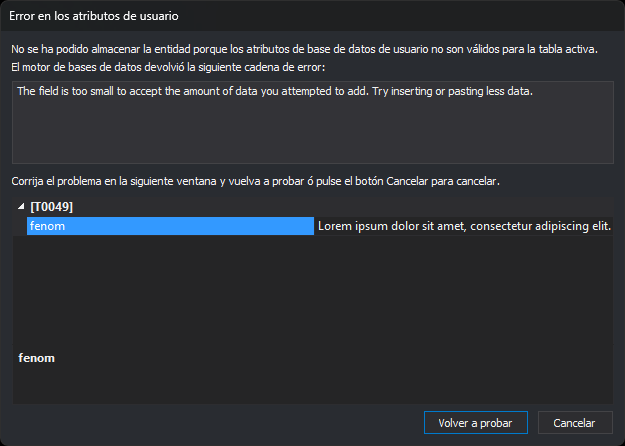
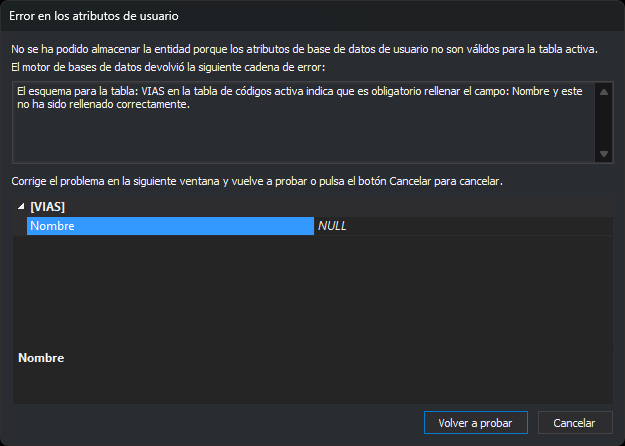
Cuadro No has introducido un campo obligatorio: página nueva y corrección de Error en los atributos de usuario
Página nueva para el cuadro que aparece al cancelar Error en los
atributos de usuario: cuándo aparece, qué muestra Más información y qué
hace cada botón. El cuadro no se puede cerrar con Esc.

En Error en los atributos de usuario, el botón Cancelar describía las
opciones de otro cuadro. Ahora enlaza a la página nueva. Se añade el
cuadro de Editar códigos como origen, el enlace a Permitir longitud 0 y
que la cadena de error puede generarla el propio Digi3D.AI.

Capturas nueva y sustituida.

diff --git a/src/digi3d-ai/referencia/cuadros-de-dialogo/error-en-los-atributos-de-usuario.md b/src/digi3d-ai/referencia/cuadros-de-dialogo/error-en-los-atributos-de-usuario.md
@@ -3,22 +3,19 @@
 
 ![Cuadro de diálogo Error en los atributos de usuario](../../../images/error-en-los-atributos-de-usuario.png)
 
-Digi3D.AI muestra este cuadro de diálogo cuando no puede guardar en la base de datos los atributos de una entidad que se acaba de registrar. Ocurre en estos casos:
+Digi3D.AI muestra este cuadro de diálogo cuando no puede guardar en la base de datos los atributos de una entidad. Aparece al registrar una entidad nueva en un archivo de dibujo conectado a una base de datos y al pulsar **Aceptar** en el cuadro de diálogo [Editar códigos](../ventana-de-dibujo/ordenes/e/editar-cod.md). Ocurre en estos casos:
 
 * El motor de base de datos rechaza el valor de un atributo. Por ejemplo, un texto más largo que el tamaño del campo en la base de datos.
-* El esquema de la tabla en la tabla de códigos indica que un campo no admite longitud cero y el atributo está vacío.
+* El campo tiene desactivada la opción [Permitir longitud 0](../editor-de-tablas-de-codigos/pestanas/base-de-datos/propiedades-de-los-campos.md#permitir-longitud-0) en la tabla de códigos y el atributo no tiene valor. Digi3D.AI hace esta comprobación antes de enviar el valor a la base de datos.
 * Un control de calidad que se ejecuta al dibujar rechaza el valor de un atributo.
 
 Si el motor de base de datos acepta los valores de los campos pero rechaza el registro al guardarlo, Digi3D.AI muestra el cuadro de diálogo [Error al almacenar datos en la base de datos](error-al-almacenar-datos-en-la-base-de-datos.md).
 
 ## Campos
 
-* **Cadena de error**: el mensaje que devolvió el motor de base de datos o el control de calidad.
+* **Cadena de error**: el mensaje de error. Lo genera el motor de base de datos, el control de calidad o el propio Digi3D.AI cuando un campo que no admite longitud 0 está vacío.
 * **Rejilla de atributos**: muestra solo el atributo que ha fallado. Corrige su valor aquí. La rejilla queda vacía si el campo pertenece a un grupo del esquema de la tabla o está marcado como oculto.
 * **Volver a probar**: intenta guardar otra vez la entidad con los valores corregidos.
-* **Cancelar**: Digi3D.AI pregunta qué hacer con la entidad:
-  * Volver a asignar un valor al atributo: muestra otra vez este cuadro de diálogo.
-  * Almacenar únicamente la geometría de la entidad, sin atributos de base de datos.
-  * No almacenar la entidad.
+* **Cancelar** (o la tecla Esc): Digi3D.AI muestra el cuadro [No has introducido un campo obligatorio](no-has-introducido-un-campo-obligatorio.md) para que elijas entre volver a asignar el valor, conservar la entidad sin el registro de ese código o eliminar la entidad.
 
   Si el error lo produjo un control de calidad, **Cancelar** descarta la entidad sin preguntar.

diff --git a/src/digi3d-ai/referencia/cuadros-de-dialogo/no-has-introducido-un-campo-obligatorio.md b/src/digi3d-ai/referencia/cuadros-de-dialogo/no-has-introducido-un-campo-obligatorio.md
@@ -1,0 +1,25 @@
+# No has introducido un campo obligatorio
+<!-- id: no-has-introducido-un-campo-obligatorio -->
+
+![Cuadro No has introducido un campo obligatorio](../../../images/no-has-introducido-un-campo-obligatorio.png)
+
+Digi3D.AI muestra este cuadro cuando pulsas **Cancelar** o la tecla Esc en el cuadro de diálogo [Error en los atributos de usuario](error-en-los-atributos-de-usuario.md). Ese cuadro aparece cuando Digi3D.AI no puede asignar el valor de un atributo al registro de la base de datos, en uno de estos casos:
+
+* El campo tiene desactivada la opción [Permitir longitud 0](../editor-de-tablas-de-codigos/pestanas/base-de-datos/propiedades-de-los-campos.md#permitir-longitud-0) en la tabla de códigos y el atributo no tiene valor. Digi3D.AI hace esta comprobación antes de enviar el valor a la base de datos.
+* El motor de base de datos rechaza el valor. Por ejemplo, un texto más largo que el tamaño del campo.
+
+El cuadro aparece al registrar una entidad nueva en un archivo de dibujo conectado a una base de datos y al pulsar **Aceptar** en el cuadro de diálogo [Editar códigos](../ventana-de-dibujo/ordenes/e/editar-cod.md). El título habla de un campo obligatorio, pero el cuadro aparece también cuando el motor de base de datos rechaza el valor.
+
+## Contenido
+
+* **Más información**: la tabla de la base de datos, el nombre del campo y el texto del error que muestra el cuadro Error en los atributos de usuario.
+
+## Botones
+
+El cuadro no se puede cerrar con la tecla Esc ni con el botón de cierre de la ventana: tienes que elegir uno de estos botones.
+
+* **Volver a asignar**: Digi3D.AI vuelve a asignar los valores de todos los campos del registro. Si el valor del campo sigue sin ser válido, muestra otra vez el cuadro de diálogo Error en los atributos de usuario.
+* **Conservar la entidad**: guarda la entidad en el archivo de dibujo. Digi3D.AI no guarda en la base de datos el registro del código que ha fallado: si la entidad es nueva, ese código queda sin registro enlazado. Los demás códigos de la entidad se almacenan normalmente.
+* **Eliminar la entidad**: descarta la entidad. No se guarda en el archivo de dibujo ni se muestra.
+
+Si el cuadro aparece al pulsar **Aceptar** en el cuadro de diálogo Editar códigos, **Eliminar la entidad** no elimina la entidad: el editor se cierra, la entidad conserva los cambios hechos en el editor y los códigos siguientes al que ha fallado no se almacenan en la base de datos.

diff --git a/src/SUMMARY.md b/src/SUMMARY.md
@@ -1316,6 +1316,7 @@
       * [Error al almacenar datos en la base de datos](digi3d-ai/referencia/cuadros-de-dialogo/error-al-almacenar-datos-en-la-base-de-datos.md)
       * [Error en los atributos de usuario](digi3d-ai/referencia/cuadros-de-dialogo/error-en-los-atributos-de-usuario.md)
       * [Introduce un punto terreno del archivo de puntos](digi3d-ai/referencia/cuadros-de-dialogo/introduce-punto-terreno.md)
+      * [No has introducido un campo obligatorio](digi3d-ai/referencia/cuadros-de-dialogo/no-has-introducido-un-campo-obligatorio.md)
       * [Nuevo proyecto](digi3d-ai/referencia/cuadros-de-dialogo/nuevo-proyecto/README.md)
         * [Sensores fotogramétricos](digi3d-ai/referencia/cuadros-de-dialogo/nuevo-proyecto/sensores-fotogrametricos.md)
         * [Archivo de dibujo](digi3d-ai/referencia/cuadros-de-dialogo/nuevo-proyecto/archivo-de-dibujo.md)
